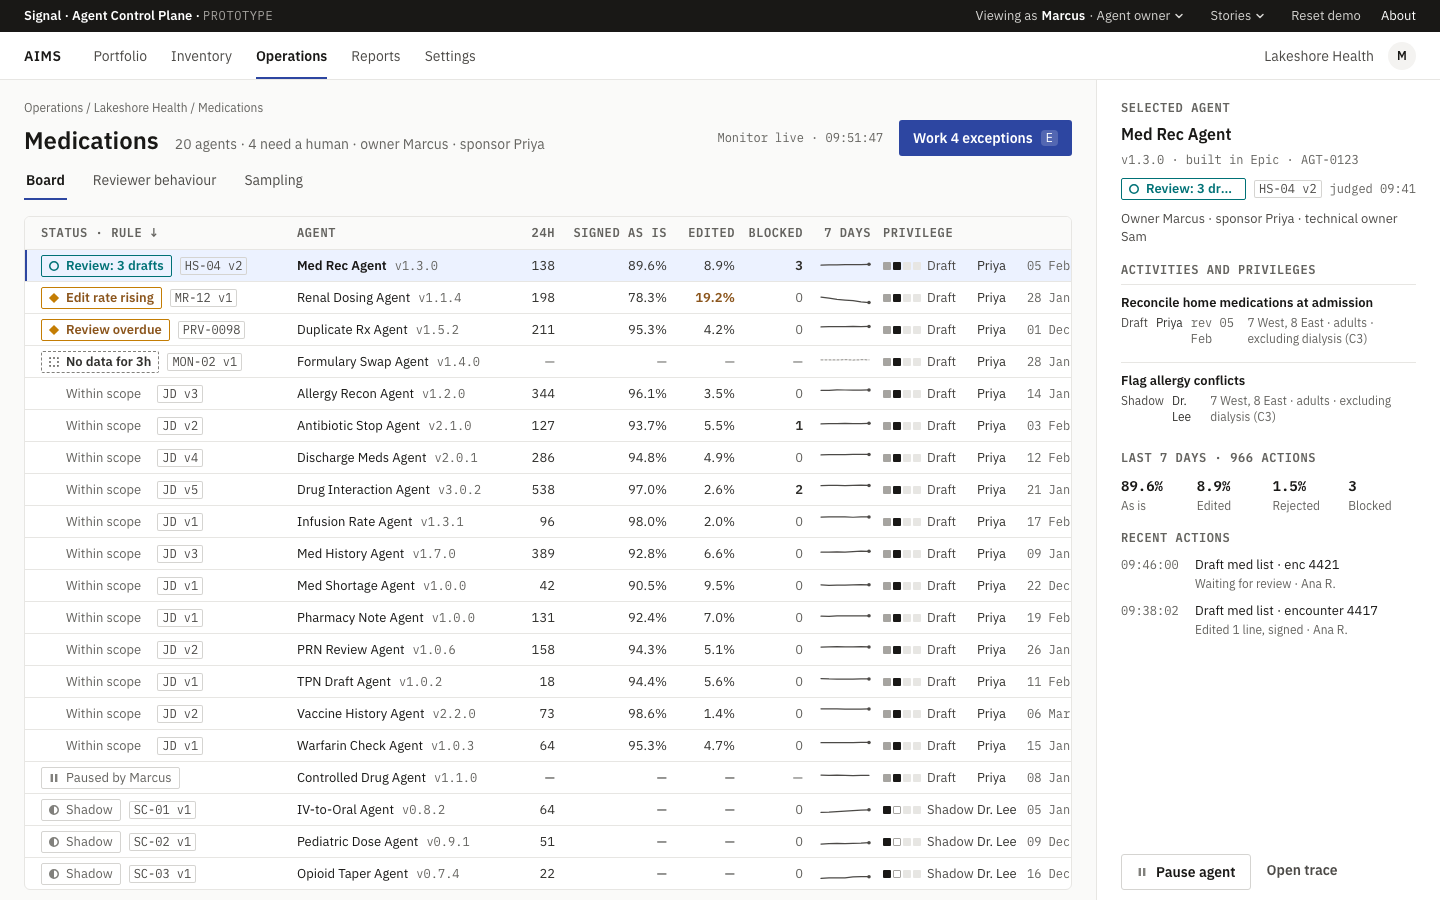
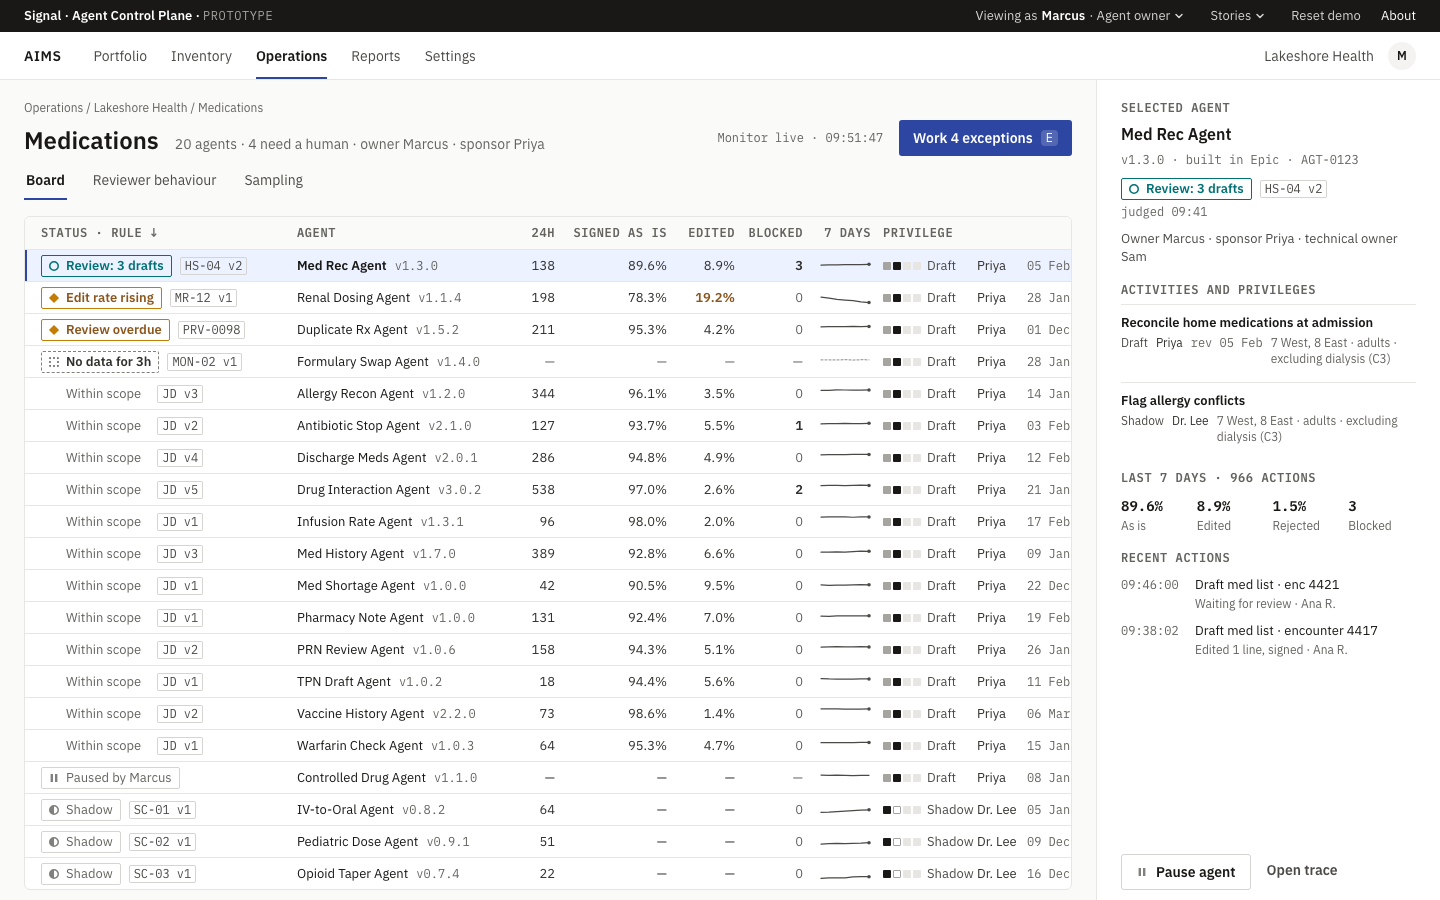
fix: review fixes — dev focus, scroll-safe focus, whole chips in the side panel
- usePageChrome tracks the last pathname it ran for, so StrictMode's
  second run in dev no longer moves focus on a fresh load (the skip link
  is the first Tab stop in dev too); heading focus no longer scrolls
- 4b's side panel lets the judgment row wrap so the chip shows whole,
  and keeps level, grantor and review date on one line
- og.png and the README screenshots re-captured; README counts updated
- severityRank keeps its doc comment

Changed region(s): [[0.7812, 0.1867, 0.9688, 0.7467], [0.9375, 0.56, 0.9688, 0.5911]]

diff --git a/src/app/usePageChrome.test.tsx b/src/app/usePageChrome.test.tsx
@@ -1,0 +1,59 @@
+import { act, render } from '@testing-library/react'
+import { StrictMode } from 'react'
+import { createMemoryRouter, Outlet, RouterProvider } from 'react-router'
+import { usePageChrome } from './usePageChrome'
+
+function Shell() {
+  usePageChrome()
+  return <Outlet />
+}
+
+const page = (title: string) => (
+  <main>
+    <h1>{title}</h1>
+    <button>Go</button>
+  </main>
+)
+
+/** The app renders in StrictMode, so dev runs every effect twice on mount (main.tsx). */
+function setup() {
+  const router = createMemoryRouter(
+    [
+      {
+        element: <Shell />,
+        children: [
+          { path: '/a', element: page('Page A'), handle: { nav: null, title: 'Page A' } },
+          { path: '/b', element: page('Page B'), handle: { nav: null, title: 'Page B' } },
+        ],
+      },
+    ],
+    { initialEntries: ['/a'] },
+  )
+  render(
+    <StrictMode>
+      <RouterProvider router={router} />
+    </StrictMode>,
+  )
+  return router
+}
+
+beforeEach(() => {
+  vi.spyOn(window, 'scrollTo').mockImplementation(() => {})
+})
+
+afterEach(() => vi.restoreAllMocks())
+
+test('a fresh load leaves focus where the browser puts it, in dev’s StrictMode too (R2, R4)', () => {
+  setup()
+  expect(document.activeElement).toBe(document.body)
+  expect(document.title).toBe('Page A · Signal Agent Control Plane')
+})
+
+test('a navigation that took focus with it lands on the new page’s heading, without scrolling it (R4, R8)', async () => {
+  const focus = vi.spyOn(HTMLElement.prototype, 'focus')
+  const router = setup()
+  await act(() => router.navigate('/b'))
+  expect(document.activeElement).toHaveTextContent('Page B')
+  expect(document.activeElement?.tagName).toBe('H1')
+  expect(focus).toHaveBeenLastCalledWith({ preventScroll: true })
+})

diff --git a/src/app/usePageChrome.ts b/src/app/usePageChrome.ts
@@ -3,8 +3,12 @@ import { useLocation, useMatches, useNavigationType } from 'react-router'
 import type { RouteHandle } from './nav'
 import { pageTitle } from './pageTitle'
 
-/** False until the page's first route has rendered: a fresh load leaves focus where the browser puts it. */
-let navigated = false
+/**
+ * The pathname focus last ran for, for the life of the page. A fresh load starts at null, so it leaves
+ * focus where the browser puts it; repeating a pathname (StrictMode's second run in dev, an AppShell
+ * remounting on the same page) changes nothing; a new pathname, even in another shell, is a navigation.
+ */
+let lastPathname: string | null = null
 
 /**
  * The browser tab's title (R3), scroll on navigation (R8), and focus after navigation (R4): when a
@@ -36,15 +40,15 @@ export function usePageChrome() {
   useLayoutEffect(() => toTop(), [pathname])
 
   useEffect(() => {
-    if (!navigated) {
-      navigated = true
-      return
-    }
+    const previous = lastPathname
+    lastPathname = pathname
+    if (previous === null || previous === pathname) return
     const active = document.activeElement
     if (active && active !== document.body && active.isConnected) return
     const heading = document.querySelector<HTMLElement>('main h1')
     if (!heading) return
     if (!heading.hasAttribute('tabindex')) heading.tabIndex = -1
-    heading.focus()
+    // The page's scroll is already settled (top for a link, restored on Back); focus mustn't move it.
+    heading.focus({ preventScroll: true })
   }, [pathname])
 }

diff --git a/tests/e2e/fidelity.spec.ts b/tests/e2e/fidelity.spec.ts
@@ -106,3 +106,16 @@ test('11a: 6 North’s trends are grey, the rising independent check amber, with
   expect(strokes).toEqual([await colour('--cs-text2'), await colour('--cs-text2'), await colour('--cs-warn-text')])
   await expect(weekly.locator('svg circle')).toHaveCount(0)
 })
+
+test('4b: the side panel shows the selected agent’s chip whole, and keeps level, grantor and review on one line', async ({ page }) => {
+  await page.goto('/operations/divisions/medications')
+  const panel = page.getByRole('complementary', { name: 'Selected agent' })
+  const chip = panel.locator('[data-status="review"]')
+  await expect(chip).toHaveText('Review: 3 drafts')
+  const clipped = await chip.evaluate((el) => [el, ...el.querySelectorAll('*')].some((n) => n.scrollWidth > n.clientWidth + 1))
+  expect(clipped).toBe(false)
+  for (const text of ['Dr. Lee', 'rev 05 Feb']) {
+    const height = await panel.getByText(text, { exact: true }).first().evaluate((el) => el.getBoundingClientRect().height)
+    expect(height, text).toBeLessThanOrEqual(18)
+  }
+})

diff --git a/src/features/board/selectors.ts b/src/features/board/selectors.ts
@@ -29,7 +29,6 @@ export function currentPrivilege(s: DemoState, activityId: string) {
  */
 export const onBoard = (a: Agent) => a.lifecycle !== 'retired' && a.lifecycle !== 'onboarding' && a.lifecycle !== 'inReview'
 
-/** Board order: critical, then anything needing a human, then fine, paused, shadow. Ties keep seed order. */
 /**
  * A judgment as the agent's own record shows it (4c header, 8c): held drafts say so, and a pause is
  * left to the level, which already reads Paused. Boards keep the short label (4a, 4b).
@@ -38,6 +37,7 @@ export function recordLabel(label: string): string {
   return label.replace(/^(Review: \d+ drafts?)$/, '$1 held').replace(/ · paused$/, '')
 }
 
+/** Board order: critical, then anything needing a human, then fine, paused, shadow. Ties keep seed order. */
 export function severityRank(status: Status): number {
   return { crit: 0, warn: 1, review: 1, stale: 1, normal: 2, paused: 3, shadow: 4 }[status]
 }

diff --git a/src/features/board/division.module.css b/src/features/board/division.module.css
@@ -143,8 +143,9 @@
 
 .judgment {
   display: flex;
+  flex-wrap: wrap;
   align-items: center;
-  gap: 8px;
+  gap: 4px 8px;
   padding-top: 4px;
 }
 
@@ -176,6 +177,11 @@
   font-size: 12px;
   line-height: 16px;
   color: var(--cs-text2);
+}
+
+/* Level, grantor and review date stay whole; only the domain wraps. */
+.activityMeta > :not(:last-child) {
+  white-space: nowrap;
 }
 
 .week {

diff --git a/README.md b/README.md
@@ -44,7 +44,7 @@
 - **Three layers:** `src/design-system` (tokens and primitives, no hospital knowledge) → `src/components` (the ten Countersign product components: props in, callbacks out) → `src/features` (screens that read through selectors and change data only through store actions).
 - **The mock hospital** is one versioned Zustand store with named scenarios (moments in time such as "resume requested" or "nine days later"). Every change goes through `can()` for permissions and writes the audit log, so any action can be traced back.
 - **The story engine** (`src/prototype/stories`) keeps `?story=&step=` in the URL, loads the moment each step needs, and keeps what the visitor did between steps.
-- **Tests:** 747 unit tests (Vitest and Testing Library) and 254 end-to-end tests (Playwright), including every route, every story from a shared link, keyboard paths, and an axe accessibility check (WCAG 2.1 AA) on every screen. `pnpm capture` screenshots each frame beside its design for visual QA.
+- **Tests:** 749 unit tests (Vitest and Testing Library) and 247 end-to-end tests (Playwright), including every route, every story from a shared link, keyboard paths, and an axe accessibility check (WCAG 2.1 AA) on every screen. `pnpm capture` screenshots each frame beside its design for visual QA.
 
 ## Run it locally
 
